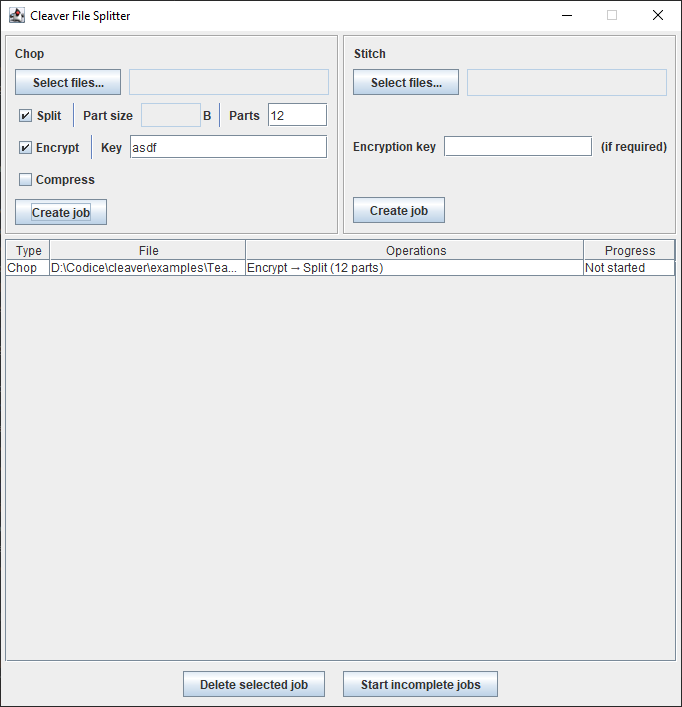
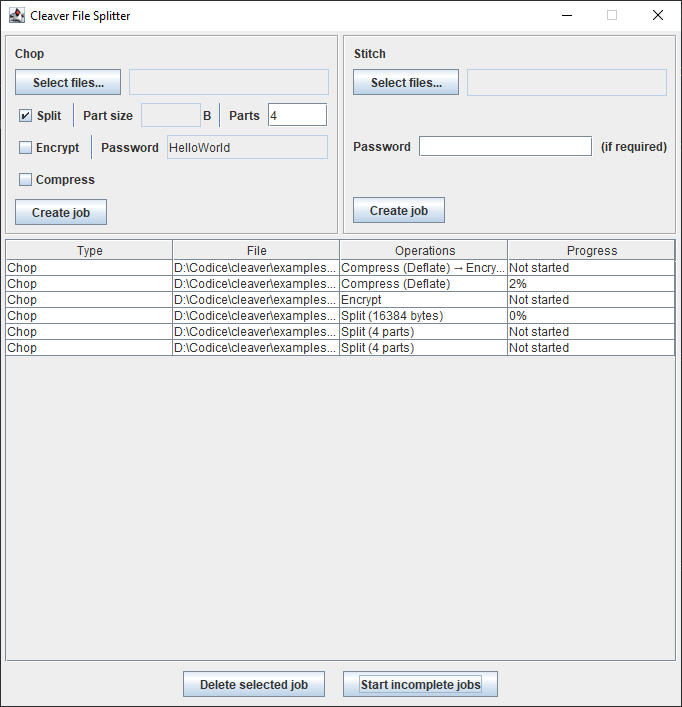
Replace "key" with "password" in labels

diff --git a/src/eu/steffo/cleaver/gui/panels/rows/option/KeyRow.java b/src/eu/steffo/cleaver/gui/panels/rows/option/KeyRow.java
@@ -15,14 +15,14 @@ import javax.swing.*;
  */
 public class KeyRow extends OptionRow {
     /**
-     * A label with "Encryption key" written on it.
+     * A label with "Password" written on it.
      */
-    protected final JLabel keyLabel;
+    protected final JLabel passwordLabel;
 
     /**
      * The text field where the user can input the encryption key.
      */
-    protected final JTextField keyTextField;
+    protected final JTextField passwordTextField;
 
     /**
      * A label with "(if required)" written on it.
@@ -37,13 +37,13 @@ public class KeyRow extends OptionRow {
 
         this.add(Box.createHorizontalStrut(8));
 
-        keyLabel = new JLabel("Encryption key");
-        this.add(keyLabel);
+        passwordLabel = new JLabel("Password");
+        this.add(passwordLabel);
 
         this.add(Box.createHorizontalStrut(8));
 
-        keyTextField = new JTextField();
-        this.add(keyTextField);
+        passwordTextField = new JTextField();
+        this.add(passwordTextField);
 
         this.add(Box.createHorizontalStrut(8));
 
@@ -56,15 +56,15 @@ public class KeyRow extends OptionRow {
     }
 
     /**
-     * @return The encryption key inserted in the {@link #keyTextField}.
+     * @return The encryption key inserted in the {@link #passwordTextField}.
      */
     public String getKey() {
-        return keyTextField.getText();
+        return passwordTextField.getText();
     }
 
     @Override
     public void setEditable(boolean value) {
-        keyTextField.setEditable(value);
+        passwordTextField.setEditable(value);
         this.update();
     }
 
@@ -72,6 +72,6 @@ public class KeyRow extends OptionRow {
      * Refresh the enabled/disabled and editable/non-editable status of all components in the KeyRow.
      */
     protected void update() {
-        keyTextField.setEnabled(keyTextField.isEditable());
+        passwordTextField.setEnabled(passwordTextField.isEditable());
     }
 }

diff --git a/src/eu/steffo/cleaver/gui/panels/rows/option/CryptRow.java b/src/eu/steffo/cleaver/gui/panels/rows/option/CryptRow.java
@@ -26,14 +26,14 @@ public class CryptRow extends OptionRow {
     protected final JSeparator separator;
 
     /**
-     * A label with "Key" written on it.
+     * A label with "Password" written on it.
      */
-    protected final JLabel keyLabel;
+    protected final JLabel passwordLabel;
 
     /**
      * The {@link JTextField} where the user can input the desired encryption key for the files, in form of a {@link String}.
      */
-    protected final JTextField keyTextField;
+    protected final JTextField passwordTextField;
 
     /**
      * Construct a CryptRow.
@@ -54,13 +54,13 @@ public class CryptRow extends OptionRow {
 
         this.add(Box.createHorizontalStrut(8));
 
-        keyLabel = new JLabel("Key");
-        this.add(keyLabel);
+        passwordLabel = new JLabel("Password");
+        this.add(passwordLabel);
 
         this.add(Box.createHorizontalStrut(8));
 
-        keyTextField = new JTextField();
-        this.add(keyTextField);
+        passwordTextField = new JTextField();
+        this.add(passwordTextField);
 
         this.add(Box.createHorizontalStrut(8));
 
@@ -75,7 +75,7 @@ public class CryptRow extends OptionRow {
         if(!cryptCheckBox.isSelected()) {
             return null;
         }
-        return new PasswordConfig(keyTextField.getText());
+        return new PasswordConfig(passwordTextField.getText());
     }
 
     @Override
@@ -88,7 +88,7 @@ public class CryptRow extends OptionRow {
      * Refresh the enabled/disabled and editable/non-editable status of all components in the SplitRow.
      */
     protected void update() {
-        keyTextField.setEnabled(cryptCheckBox.isEnabled());
-        keyTextField.setEditable(cryptCheckBox.isSelected());
+        passwordTextField.setEnabled(cryptCheckBox.isEnabled());
+        passwordTextField.setEditable(cryptCheckBox.isSelected());
     }
 }
